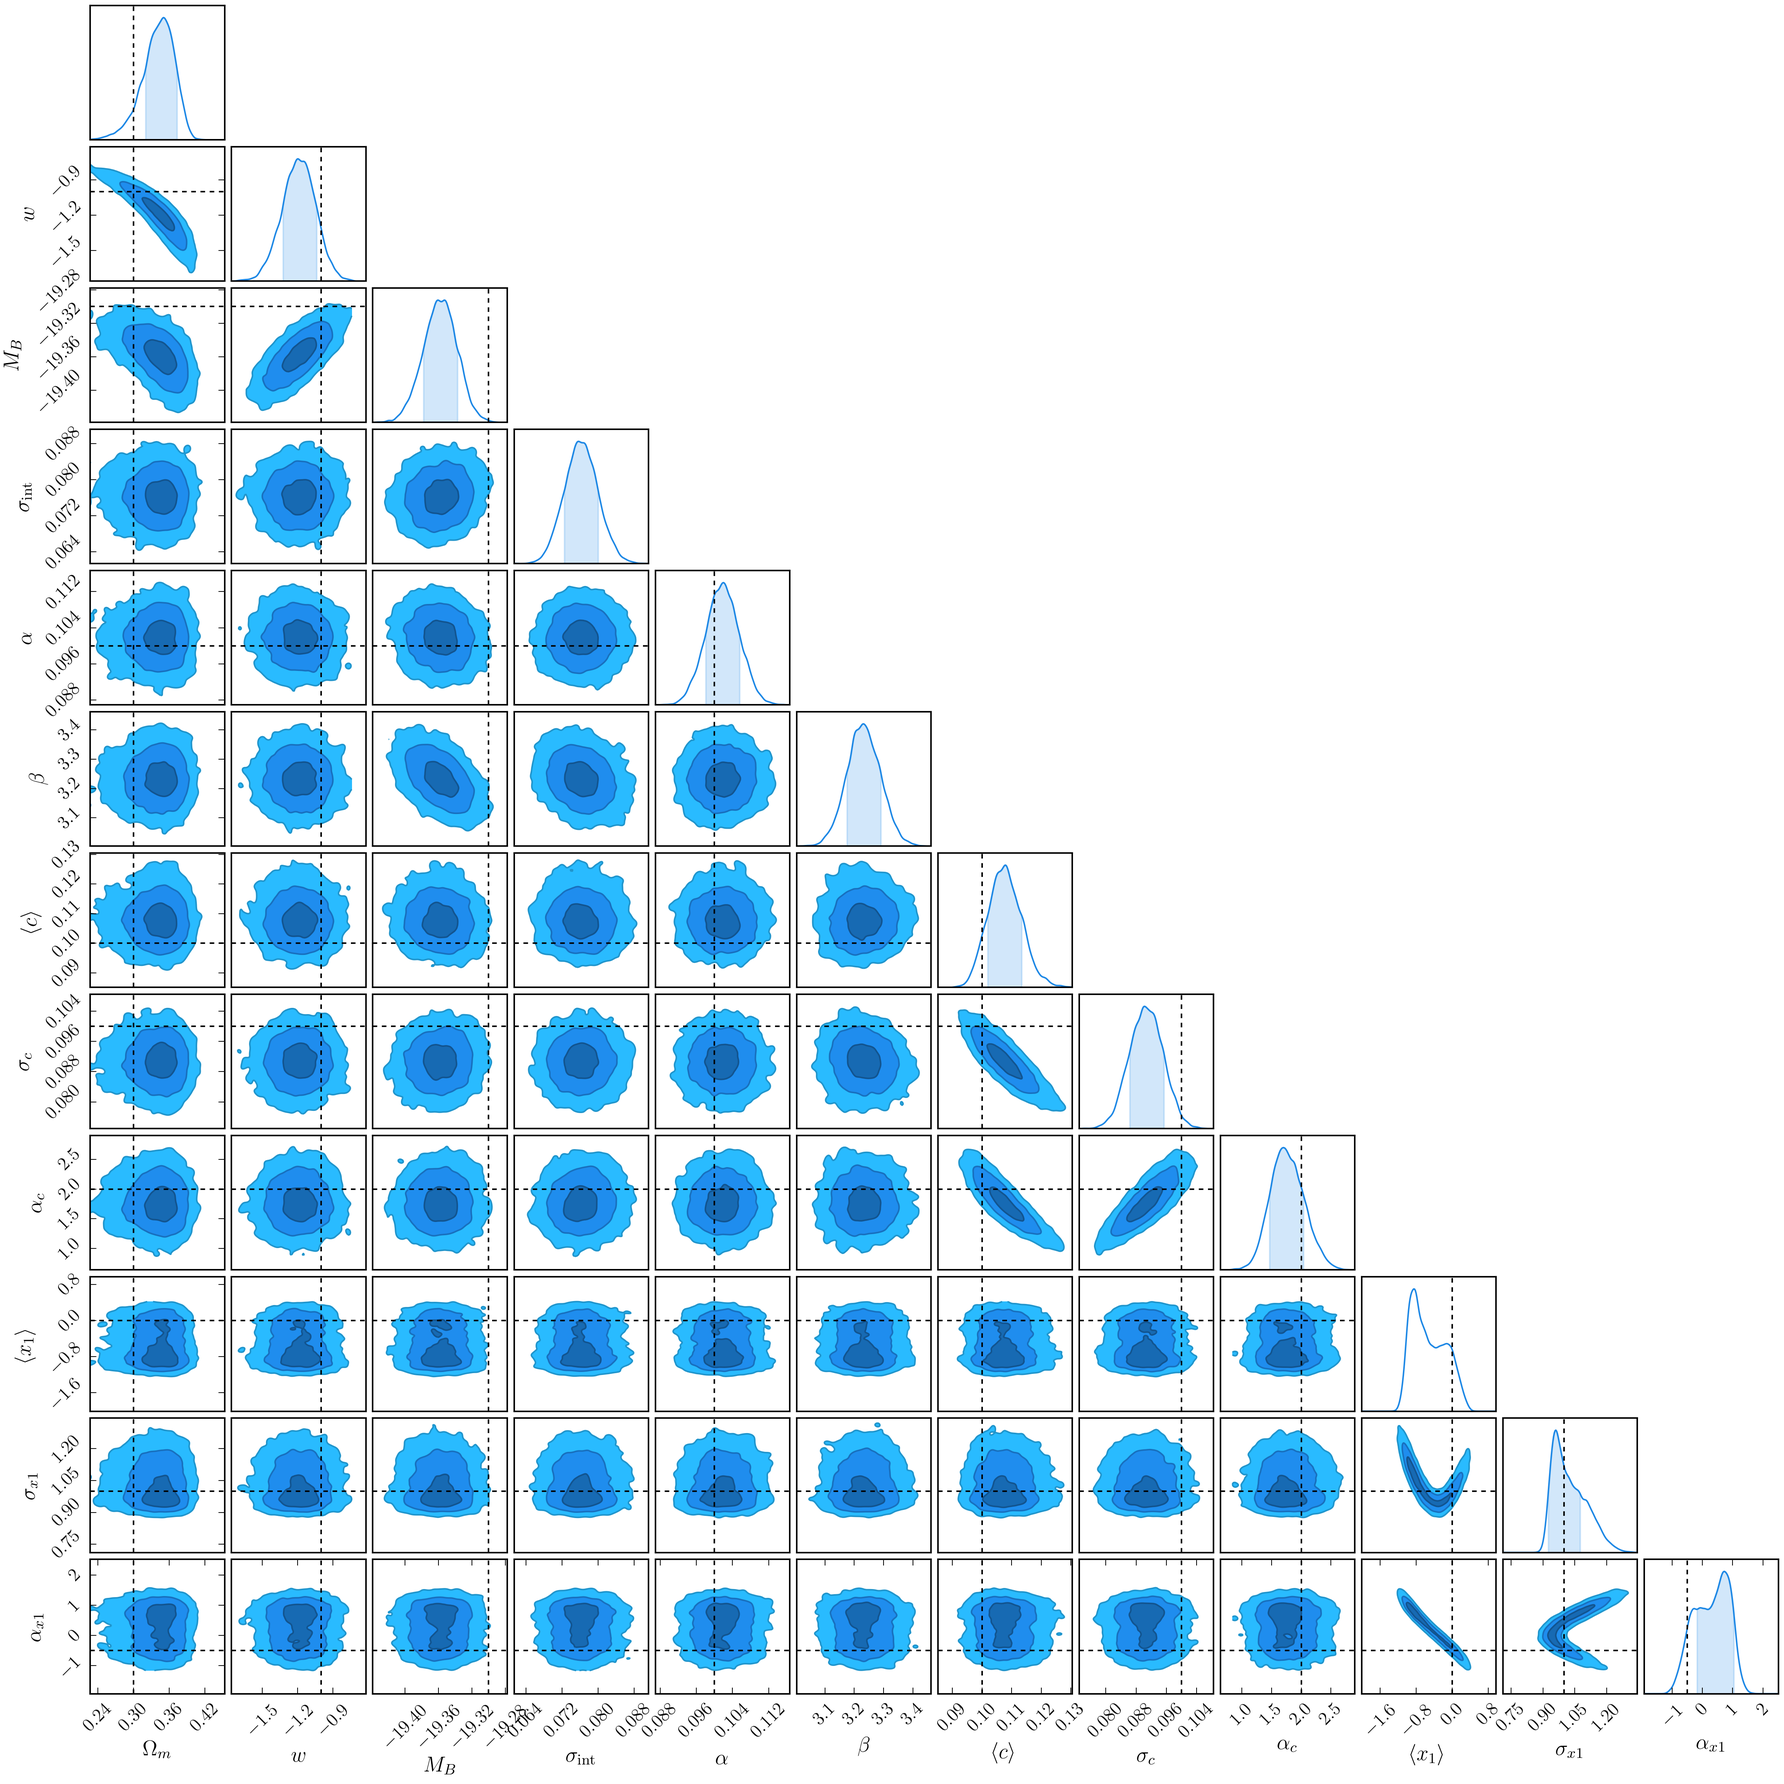
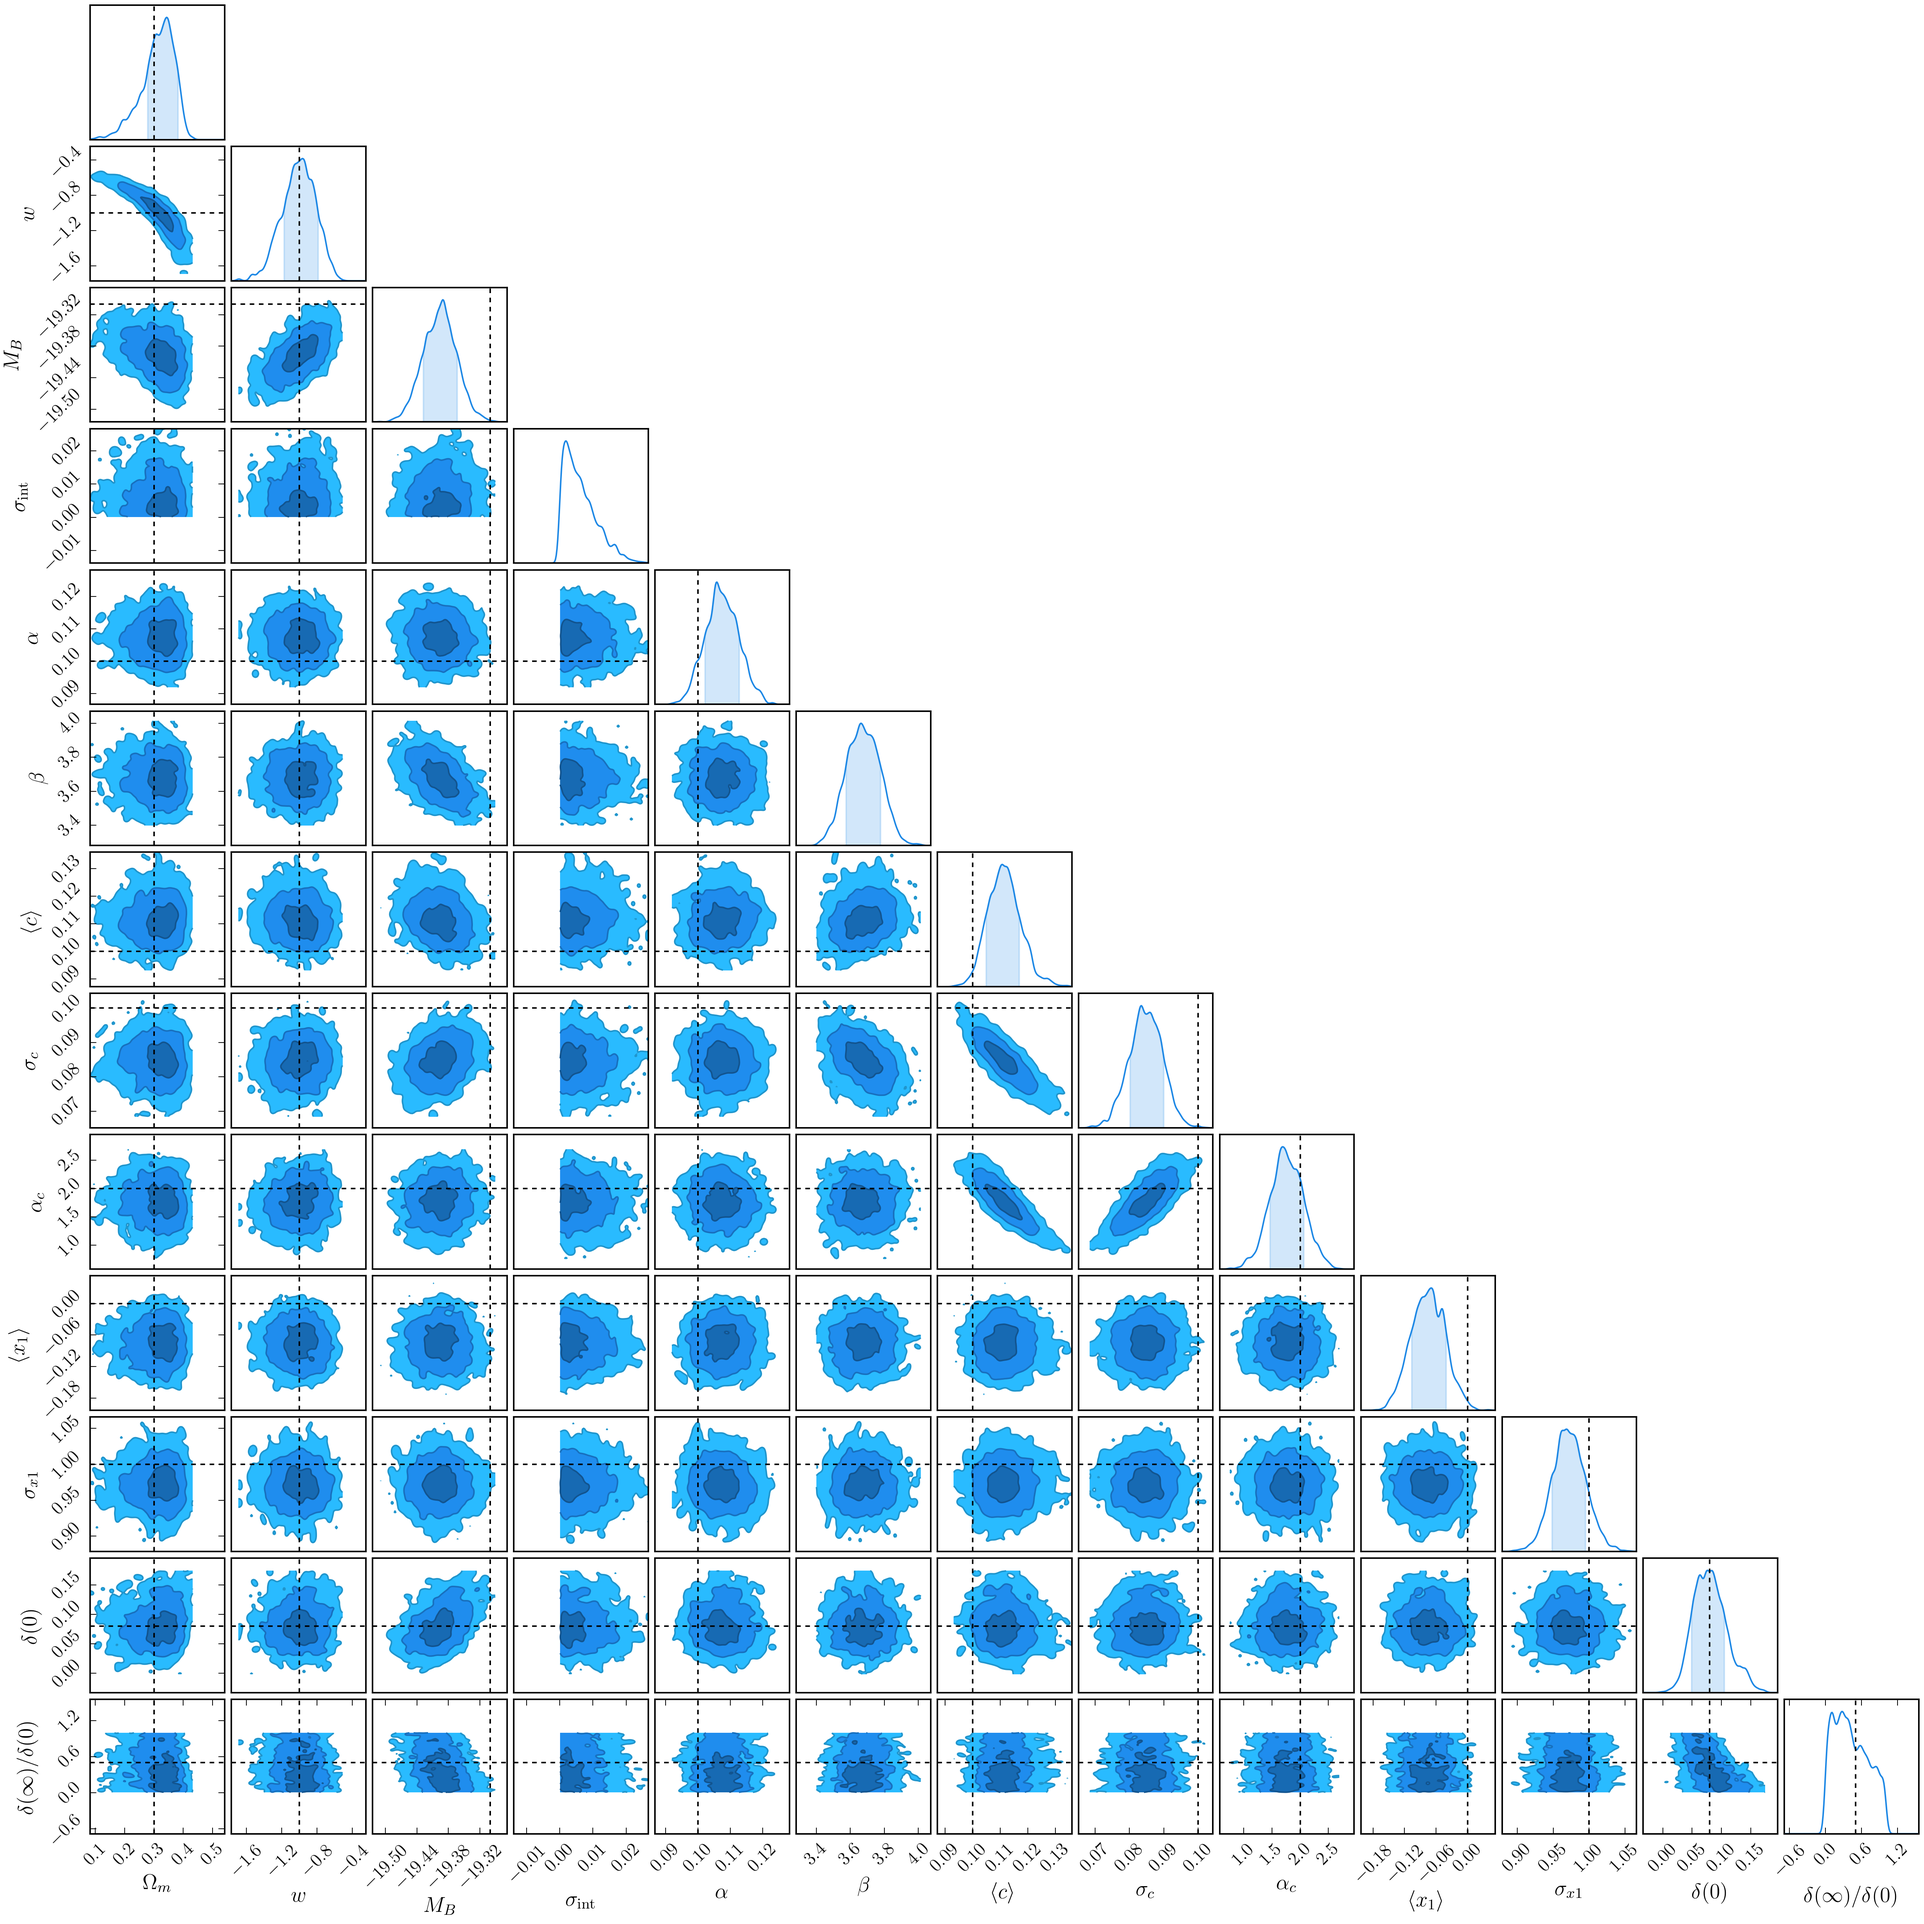
Adding in mass corrections

Changed region(s): [[0.0, 0.0, 1.0, 0.9963]]

diff --git a/dessn/models/d_simple_stan/run_stan.py b/dessn/models/d_simple_stan/run_stan.py
@@ -13,19 +13,20 @@ def get_truths_labels_significance():
         ("w", -1.0, r"$w$", True, -1.5, -0.5),
         ("MB", -19.3, r"$M_B$", True, -20, -18.5),
         ("sigma_int", 0.1, r"$\sigma_{\rm int}$", True, 0.05, 0.4),
-        ("alpha", 0.1, r"$\alpha$", True, -1, 1),
-        ("beta", 3.0, r"$\beta$", True, -1, 4),
+        ("alpha", 0.1, r"$\alpha$", True, -0.3, 0.5),
+        ("beta", 3.0, r"$\beta$", True, 0, 5),
         ("c_loc", 0.1, r"$\langle c \rangle$", False, -0.2, 0.2),
         ("c_scale", 0.1, r"$\sigma_c$", False, 0.05, 0.2),
         ("c_alpha", 2.0, r"$\alpha_c$", False, -2, 2.0),
         ("x1_loc", 0.0, r"$\langle x_1 \rangle$", False, -1.0, 1.0),
         ("x1_scale", 1.0, r"$\sigma_{x1}$", False, 0.1, 2.0),
-        ("x1_alpha", -0.5, r"$\alpha_{x1}$", False, -2.0, 2.0)
+        ("dscale", 0.08, r"$\delta(0)$", False, -0.2, 0.2),
+        ("dratio", 0.5, r"$\delta(\infty)/\delta(0)$", False, 0.0, 1.0)
     ]
     return result
 
 
-def get_physical_data(n_sne=1000, seed=0):
+def get_physical_data(n_sne=500, seed=0):
     vals = get_truths_labels_significance()
     mapping = {k[0]: k[1] for k in vals}
     np.random.seed(seed)
@@ -38,15 +39,24 @@ def get_physical_data(n_sne=1000, seed=0):
     cosmology = FlatwCDM(70.0, mapping["Om"], w0=mapping["w"])
     dist_mod = cosmology.distmod(redshifts).value
 
+    redshift_pre_comp = 0.9 + np.power(10, 0.95 * redshifts)
     MB = mapping["MB"]
     alpha = mapping["alpha"]
     beta = mapping["beta"]
     intrinsic = mapping["sigma_int"]
-    for mu in dist_mod:
-        x1 = skewnorm.rvs(mapping["x1_alpha"], loc=mapping["x1_loc"], scale=mapping["x1_scale"])
+    dscale = mapping["dscale"]
+    dratio = mapping["dratio"]
+    p_high_masses = np.random.uniform(low=0.0, high=1.0, size=dist_mod.size)
+    for zz, mu, p in zip(redshift_pre_comp, dist_mod, p_high_masses):
+        x1 = normal(loc=mapping["x1_loc"], scale=mapping["x1_scale"])
         c = skewnorm.rvs(mapping["c_alpha"], loc=mapping["c_loc"], scale=mapping["c_scale"])
+        if np.random.random() < p:
+            mass_correction = dscale * (1.9 * (1 - dratio) / zz + dratio)
+        else:
+            mass_correction = 0.0
         mb = MB + mu - alpha * x1 + beta * c + normal(scale=intrinsic) + normal(scale=0.05)
-        diag = np.array([0.05, 0.02, 0.02]) ** 2
+        mb += -mass_correction * p
+        diag = np.array([0.05, 0.3, 0.05]) ** 2
         cov = np.diag(diag)
         cor = cov / np.sqrt(np.diag(cov))[None, :] / np.sqrt(np.diag(cov))[:, None]
         obs_mBx1c_cor.append(cor)
@@ -58,7 +68,9 @@ def get_physical_data(n_sne=1000, seed=0):
         "obs_mBx1c": obs_mBx1c,
         "obs_mBx1c_cov": obs_mBx1c_cov,
         "obs_mBx1c_cor": obs_mBx1c_cor,
-        "redshifts": redshifts
+        "redshifts": redshifts,
+        "redshift_pre_comp": redshift_pre_comp,
+        "p_high_mass": p_high_masses
     }
 
 
@@ -109,8 +121,8 @@ def init_fn():
     x1s = np.array([x[1] for x in data["obs_mBx1c"]])
     cs = np.array([x[2] for x in data["obs_mBx1c"]])
     n_sne = x1s.size
-    randoms["true_c"] = cs + normal(scale=0.05, size=n_sne),
-    randoms["true_x1"] = cs + normal(scale=0.1, size=n_sne),
+    randoms["true_c"] = cs + normal(scale=0.05, size=n_sne)
+    randoms["true_x1"] = cs + normal(scale=0.1, size=n_sne)
     return randoms
 
 
@@ -132,7 +144,7 @@ if __name__ == "__main__":
     # Run that stan
     import pystan
     sm = pystan.StanModel(file="model.stan", model_name="Cosmology")
-    fit = sm.sampling(data=data, iter=3000, warmup=1000, chains=4, init=init_fn)
+    fit = sm.sampling(data=data, iter=1000, chains=4, init=init_fn)
 
     # Dump relevant chains to file
     with open(t, 'wb') as output:
